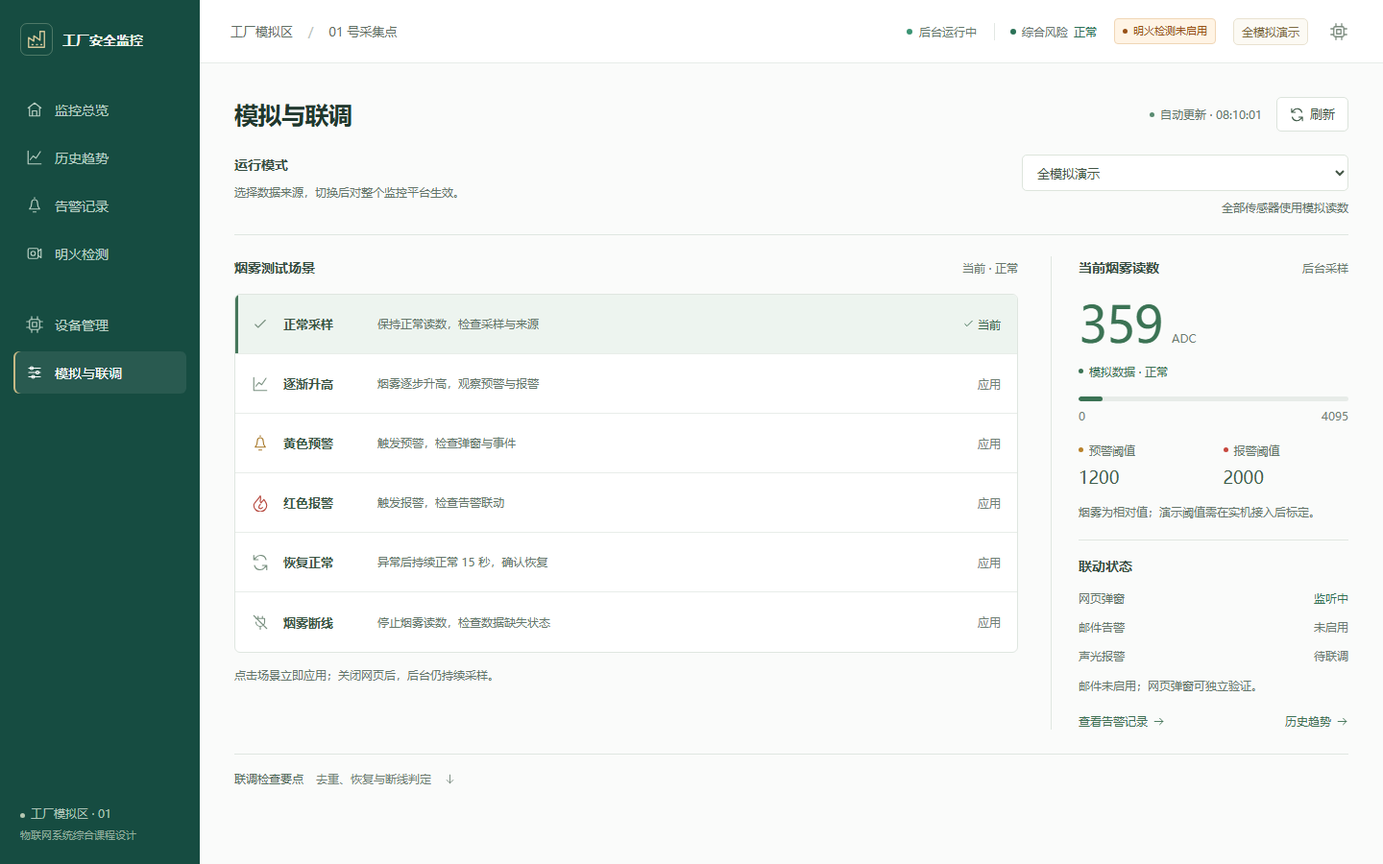
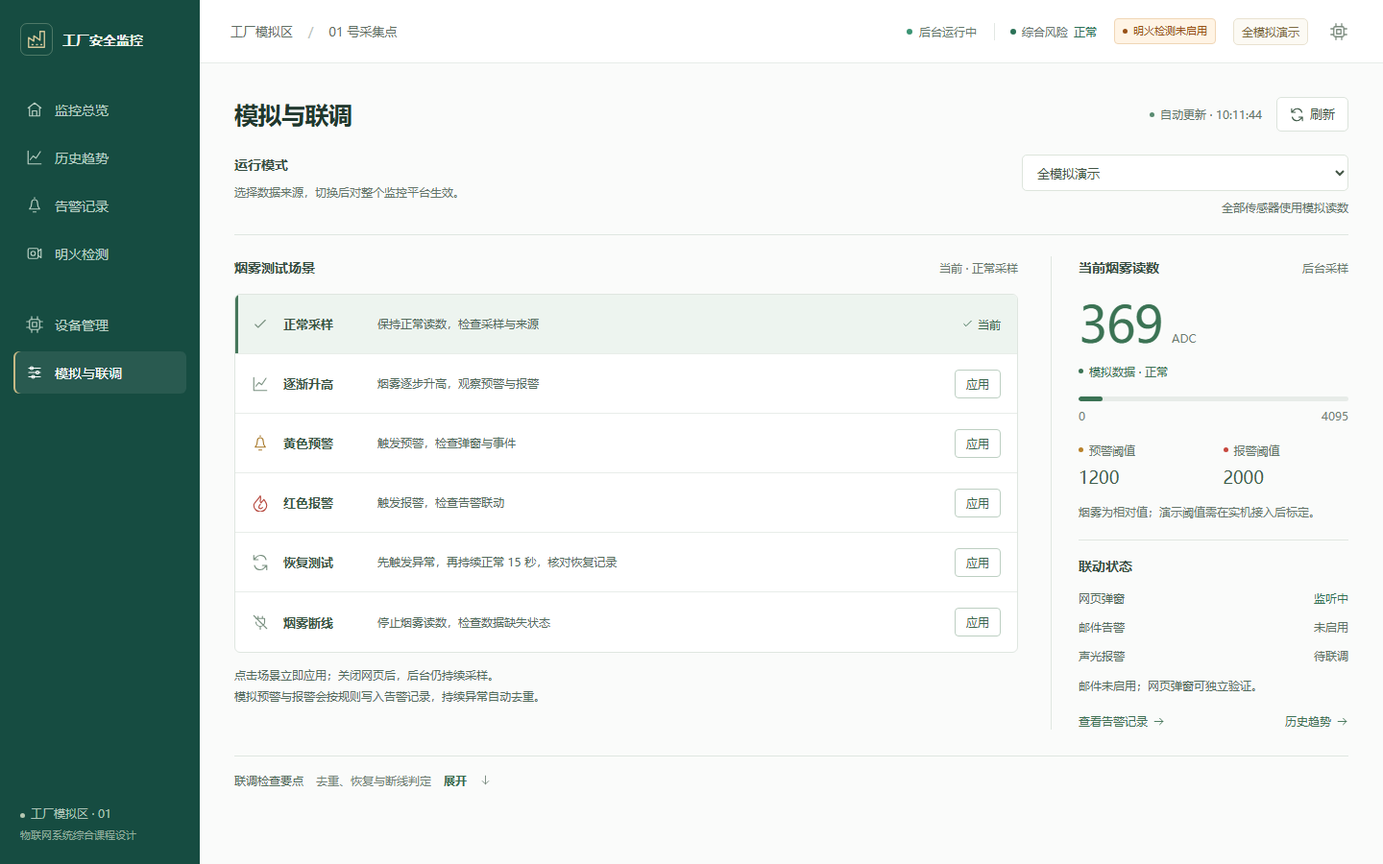
fix: clarify scenario actions and inline application feedback

diff --git a/static/css/simulation.css b/static/css/simulation.css
@@ -14,17 +14,23 @@
 .sim-section-heading { display:flex; align-items:center; justify-content:space-between; gap:12px; margin-bottom:16px; min-height:23px; }
 .sim-section-heading>span { color:#69796e; font-size:12px; white-space:nowrap; }
 .sim-scenario-list { border:1px solid #dfe6e0; background:#fff; border-radius:6px; overflow:hidden; }
-.sim-scenario { width:100%; display:grid; grid-template-columns:20px 85px minmax(0,1fr) 42px; gap:13px; align-items:center; min-height:62px; padding:15px 17px; background:transparent; border:0; border-bottom:1px solid #e8ede9; border-radius:0; color:#405b4b; text-align:left; }
+.sim-scenario { width:100%; display:grid; grid-template-columns:20px 85px minmax(0,1fr) 76px; gap:13px; align-items:center; min-height:62px; padding:15px 17px; background:transparent; border:0; border-bottom:1px solid #e8ede9; border-radius:0; color:#405b4b; text-align:left; }
 .sim-scenario:last-child { border-bottom:0; }.sim-scenario:hover:enabled { background:#f6f9f6; }
 .sim-scenario.selected { background:#edf4ef; box-shadow:inset 3px 0 #46775b; }.sim-scenario.selected:hover:enabled { background:#e7f0e9; }
 .sim-scenario:focus-visible { outline:2px solid #46775b; outline-offset:-3px; }
 .sim-scenario-symbol { display:flex; color:#7a9181; }.sim-scenario-symbol>.icon { width:18px; height:18px; stroke-width:1.5; }
 .sim-scenario[data-scenario="warning"] .sim-scenario-symbol { color:#a77727; }.sim-scenario[data-scenario="alarm"] .sim-scenario-symbol { color:#b6483e; }
-.sim-scenario-name { font-size:13px; font-weight:550; color:#395443; }.sim-scenario-description { font-size:12px; line-height:1.8; color:#65776b; }
-.sim-scenario-action { font-size:12px; color:#6f8074; text-align:right; }.sim-scenario-action>span:last-child { display:none; align-items:center; justify-content:flex-end; gap:3px; color:#35664a; }.sim-scenario-action .icon { width:13px; height:13px; }
-.sim-scenario.selected .sim-scenario-action>span:first-child { display:none; }.sim-scenario.selected .sim-scenario-action>span:last-child { display:flex; }
-.sim-scenario:disabled { opacity:.55; }.sim-scenario:disabled .sim-scenario-action { visibility:hidden; }
-.sim-control-note { margin-top:13px; }.sim-control-note p { margin:0; color:#65766b; font-size:12px; line-height:1.8; }
+.sim-scenario-name { font-size:13px; font-weight:550; color:#395443; }.sim-scenario-description { font-size:12px; line-height:1.8; color:#536b5c; }
+.sim-scenario-action { display:flex; justify-content:flex-end; font-size:12px; white-space:nowrap; }
+.sim-scenario-action>span { display:none; align-items:center; justify-content:center; gap:4px; min-height:30px; }
+.sim-scenario-action .sim-action-apply { display:inline-flex; padding:4px 11px; border:1px solid #bdcfc2; border-radius:4px; color:#3c664c; background:#fff; }
+.sim-scenario:hover:enabled .sim-action-apply { border-color:#7c9e86; background:#eef5ef; }
+.sim-scenario-action .sim-action-current { color:#35664a; }.sim-scenario-action .icon { width:13px; height:13px; }
+.sim-scenario.selected .sim-action-apply { display:none; }.sim-scenario.selected .sim-action-current { display:inline-flex; }
+.sim-scenario:disabled { opacity:.55; }.sim-scenario:disabled.selected,.sim-scenario:disabled[data-applying="true"] { opacity:1; }
+.sim-scenario[data-applying="true"] .sim-action-apply,.sim-scenario[data-applying="true"] .sim-action-current { display:none; }
+.sim-scenario[data-applying="true"] .sim-action-pending { display:inline-flex; padding:4px 7px; border:1px solid #ddc99d; border-radius:4px; background:#fff8eb; color:#89611f; }
+.sim-control-note { margin-top:13px; }.sim-control-note p { margin:0; color:#536b5c; font-size:12px; line-height:1.8; }
 #controlMessage { min-height:22px; margin-top:3px; color:#367153; }#controlMessage[data-state="pending"] { color:#8b6725; }#controlMessage[data-state="error"] { color:#a13e35; }
 .sim-monitor { border-left:1px solid #e0e7e1; padding-left:28px; }
 .sim-reading-panel { --reading-color:#3b7354; }.sim-reading-panel[data-level="red"] { --reading-color:#b44339; }.sim-reading-panel[data-level="yellow"] { --reading-color:#9b6d20; }.sim-reading-panel[data-level="gray"] { --reading-color:#78857d; }
@@ -35,13 +41,14 @@
 .sim-thresholds { display:grid; grid-template-columns:1fr 1fr; gap:20px; margin:18px 0 12px; }.sim-thresholds dt { display:flex; align-items:center; gap:6px; font-size:12px; color:#65766a; }.sim-thresholds .dot { width:5px; height:5px; }.sim-thresholds dd { margin:6px 0 0; font-size:18px; font-weight:450; color:#425f4d; font-variant-numeric:tabular-nums; }
 .sim-reading-note { font-size:12px; line-height:1.8; color:#65766b; margin:0; }
 .sim-linkage { margin-top:18px; border-top:1px solid #e0e7e1; padding-top:16px; }
-.sim-linkage dl { margin:12px 0; display:grid; gap:12px; }.sim-linkage dl>div { display:flex; justify-content:space-between; gap:16px; font-size:12px; }.sim-linkage dt { color:#64756a; }.sim-linkage dd { margin:0; color:#69786f; }.sim-linkage dd[data-state="ready"] { color:#317153; }.sim-linkage dd[data-state="error"] { color:#aa4037; }
-.sim-linkage>p { margin:0; font-size:12px; line-height:1.8; color:#65766b; }
+.sim-linkage dl { margin:12px 0; display:grid; gap:12px; }.sim-linkage dl>div { display:flex; justify-content:space-between; gap:16px; font-size:12px; }.sim-linkage dt { color:#536b5c; }.sim-linkage dd { margin:0; color:#5b7063; }.sim-linkage dd[data-state="ready"] { color:#317153; }.sim-linkage dd[data-state="error"] { color:#aa4037; }
+.sim-linkage>p { margin:0; font-size:12px; line-height:1.8; color:#536b5c; }
 .sim-result-links { display:flex; justify-content:space-between; gap:16px; margin-top:17px; }.sim-result-links a { display:inline-flex; align-items:center; gap:5px; font-size:12px; color:#3e7053; }.sim-result-links .icon { width:13px; height:13px; }.sim-result-links a:hover { text-decoration:underline; text-underline-offset:3px; }
 .sim-guide { border-top:1px solid #dfe6e1; margin-top:25px; padding-top:16px; }.sim-guide summary { display:flex; align-items:center; gap:13px; font-size:12px; color:#526b59; list-style:none; cursor:pointer; width:fit-content; }.sim-guide summary::-webkit-details-marker { display:none; }.sim-guide summary>span { color:#6f7e73; }.sim-guide summary>.icon { width:13px; height:13px; color:#74867a; transition:transform .15s; }.sim-guide[open] summary>.icon { transform:rotate(180deg); }.sim-guide summary:focus-visible { outline:2px solid #46775b; outline-offset:4px; }
 .sim-guide ul { margin:14px 0 0; padding-left:18px; font-size:12px; line-height:1.9; color:#65766b; }.sim-guide li+li { margin-top:6px; }
-@media(min-width:1750px) { .sim-layout { grid-template-columns:minmax(0,1fr) 350px; gap:42px; }.sim-monitor { padding-left:34px; }.sim-mode-field { width:350px; }.sim-scenario { min-height:72px; grid-template-columns:22px 105px minmax(0,1fr) 48px; padding:17px 22px; }.sim-scenario-name { font-size:14px; }.sim-scenario-description { font-size:13px; } }
-@media(max-width:1200px) { .sim-layout { grid-template-columns:minmax(0,1fr) 280px; gap:24px; }.sim-monitor { padding-left:23px; }.sim-scenario { grid-template-columns:18px minmax(0,1fr) 40px; gap:3px 10px; padding:12px 15px; }.sim-scenario-description { grid-column:2; }.sim-scenario-symbol { grid-column:1; grid-row:1/3; }.sim-scenario-action { grid-column:3; grid-row:1/3; }.sim-mode-field { width:310px; } }
+.sim-guide summary>.sim-guide-toggle { color:#376b4d; font-weight:550; }.sim-guide-close { display:none; }.sim-guide[open] .sim-guide-open { display:none; }.sim-guide[open] .sim-guide-close { display:inline; }
+@media(min-width:1750px) { .sim-layout { grid-template-columns:minmax(0,1fr) 350px; gap:42px; }.sim-monitor { padding-left:34px; }.sim-mode-field { width:350px; }.sim-scenario { min-height:72px; grid-template-columns:22px 105px minmax(0,1fr) 76px; padding:17px 22px; }.sim-scenario-name { font-size:14px; }.sim-scenario-description { font-size:13px; } }
+@media(max-width:1200px) { .sim-layout { grid-template-columns:minmax(0,1fr) 280px; gap:24px; }.sim-monitor { padding-left:23px; }.sim-scenario { grid-template-columns:18px minmax(0,1fr) 76px; gap:3px 10px; padding:12px 15px; }.sim-scenario-description { grid-column:2; }.sim-scenario-symbol { grid-column:1; grid-row:1/3; }.sim-scenario-action { grid-column:3; grid-row:1/3; }.sim-mode-field { width:310px; } }
 @media(max-width:950px) { .sim-layout { grid-template-columns:minmax(0,1fr); gap:28px; }.sim-monitor { display:grid; grid-template-columns:1fr 1fr; gap:28px; padding:24px 0 0; border-left:0; border-top:1px solid #dfe6e1; }.sim-linkage { margin:0; padding:0 0 0 28px; border-top:0; border-left:1px solid #e0e7e1; }.sim-mode { gap:20px; }.sim-mode-field { width:280px; } }
 @media(max-width:720px) { .sim-heading { margin-bottom:25px; gap:14px; }.sim-heading h1 { font-size:23px; }.sim-updated { display:none; }.sim-mode { flex-direction:column; gap:16px; margin-bottom:24px; padding-bottom:22px; }.sim-mode-field { width:100%; }.sim-mode-field p { text-align:left; }.sim-scenario { padding:14px 13px; min-height:74px; }.sim-section-heading { margin-bottom:13px; }.sim-monitor { grid-template-columns:minmax(0,1fr); gap:23px; }.sim-linkage { border-left:0; border-top:1px solid #e0e7e1; padding:21px 0 0; }.sim-reading-value strong { font-size:48px; }.sim-result-links { justify-content:flex-start; gap:24px; }.sim-guide summary { gap:9px; flex-wrap:wrap; }.sim-guide summary>span { font-size:12px; } }
 @media(prefers-reduced-motion:reduce) { .sim-scale-track>i,.sim-guide summary>.icon { transition:none; } }

diff --git a/templates/pages/simulation.html b/templates/pages/simulation.html
@@ -17,13 +17,13 @@
         {% for key,label in scenarios.items() %}
         <button type="button" class="sim-scenario" data-scenario="{{ key }}" aria-pressed="false">
           <span class="sim-scenario-symbol">{{ icon({'normal':'check','rising':'history','warning':'alerts','alarm':'fire','recovery':'refresh','disconnected':'unplug'}[key]) }}</span>
-          <span class="sim-scenario-name">{{ {'normal':'正常采样','rising':'逐渐升高','warning':'黄色预警','alarm':'红色报警','recovery':'恢复正常','disconnected':'烟雾断线'}[key] }}</span>
-          <span class="sim-scenario-description">{{ {'normal':'保持正常读数，检查采样与来源','rising':'烟雾逐步升高，观察预警与报警','warning':'触发预警，检查弹窗与事件','alarm':'触发报警，检查告警联动','recovery':'异常后持续正常 15 秒，确认恢复','disconnected':'停止烟雾读数，检查数据缺失状态'}[key] }}</span>
-          <span class="sim-scenario-action" aria-hidden="true"><span>应用</span><span>{{ icon('check') }}当前</span></span>
+          <span class="sim-scenario-name">{{ {'normal':'正常采样','rising':'逐渐升高','warning':'黄色预警','alarm':'红色报警','recovery':'恢复测试','disconnected':'烟雾断线'}[key] }}</span>
+          <span class="sim-scenario-description">{{ {'normal':'保持正常读数，检查采样与来源','rising':'烟雾逐步升高，观察预警与报警','warning':'触发预警，检查弹窗与事件','alarm':'触发报警，检查告警联动','recovery':'先触发异常，再持续正常 15 秒，核对恢复记录','disconnected':'停止烟雾读数，检查数据缺失状态'}[key] }}</span>
+          <span class="sim-scenario-action" aria-hidden="true"><span class="sim-action-apply">应用</span><span class="sim-action-current">{{ icon('check') }}当前</span><span class="sim-action-pending">应用中…</span></span>
         </button>
         {% endfor %}
       </div>
-      <div class="sim-control-note"><p id="controlHint">点击场景立即应用，后台持续采样。</p><p id="controlMessage" role="status" aria-live="polite"></p></div>
+      <div class="sim-control-note"><p id="controlHint">点击场景立即应用，后台持续采样。</p><p>模拟预警与报警会按规则写入告警记录，持续异常自动去重。</p><p id="controlMessage" role="status" aria-live="polite"></p></div>
     </section>
 
     <aside class="sim-monitor" aria-label="实时读数与联动状态">
@@ -43,5 +43,5 @@
     </aside>
   </div>
 
-  <details class="sim-guide"><summary>联调检查要点<span>去重、恢复与断线判定</span>{{ icon('arrow-down') }}</summary><ul><li>先确认正常读数，再触发预警或报警；持续同一异常应合并记录，升级时新增事件。</li><li>异常后切换恢复场景，保持正常采样至少 15 秒，再核对告警页的恢复记录。</li><li>烟雾断线应显示无有效数据，不能作为恢复依据；混合模式下其余传感器需实际上报。</li><li>模拟读数仅用于功能演示与联调；实体声光动作和邮件接收需要分别验证。</li></ul></details>
+  <details class="sim-guide"><summary>联调检查要点<span>去重、恢复与断线判定</span><span class="sim-guide-toggle" aria-hidden="true"><span class="sim-guide-open">展开</span><span class="sim-guide-close">收起</span></span>{{ icon('arrow-down') }}</summary><ul><li>先确认正常读数，再触发预警或报警；持续同一异常应合并记录，升级时新增事件。</li><li>先触发异常，再应用“恢复测试”，保持正常采样至少 15 秒，核对告警页的恢复记录。</li><li>烟雾断线应显示无有效数据，不能作为恢复依据，当前也不会单独生成断线告警；混合模式下其余传感器需实际上报。</li><li>模拟读数仅用于功能演示与联调；实体声光动作和邮件接收需要分别验证。</li></ul></details>
 </div>

diff --git a/static/js/dashboard.js b/static/js/dashboard.js
@@ -8,7 +8,7 @@
   const modes = {hybrid:"真实环境＋模拟烟雾",demo:"全模拟演示",live:"全部真实采集"};
   const sources = {simulation:"模拟数据",mqtt:"实际采集",missing:"待接入"};
   const types = {environment:"环境异常",smoke:"烟雾异常",vision:"明火异常"};
-  const scenarios = {normal:"正常",rising:"逐渐升高",warning:"预警",alarm:"报警",recovery:"恢复",disconnected:"烟雾断线"};
+  const scenarios = {normal:"正常采样",rising:"逐渐升高",warning:"黄色预警",alarm:"红色报警",recovery:"恢复测试",disconnected:"烟雾断线"};
   const token = document.querySelector('meta[name="control-token"]').content;
   let status = null, thresholds = {}, currentMode = null, eventCursor = null, eventStream = null;
   let minutes = 10, selectedHistoryMode = null, customRange = null, historyWindow = null, historyPoints = [], stats = null;
@@ -522,16 +522,20 @@
   }
   async function control(body){
     if(controlBusy)return;controlBusy=true;controlVersion++;updateSimulationControls();
+    const activeRow=body.scenario?document.querySelector('[data-scenario="'+body.scenario+'"]'):null;
+    const clearApplying=()=>{if(activeRow){delete activeRow.dataset.applying;activeRow.removeAttribute("aria-busy");}};
+    if(activeRow){activeRow.dataset.applying="true";activeRow.setAttribute("aria-busy","true");}
     $("simulationWorkspace").setAttribute("aria-busy","true");$("refreshSimulation").disabled=true;
-    set("controlMessage","正在应用…");$("controlMessage").dataset.state="pending";
+    set("controlMessage",body.scenario?"正在应用："+scenarios[body.scenario]+"…":"正在切换运行模式…");$("controlMessage").dataset.state="pending";
     try{
       const data=await api("/api/simulation",{method:"POST",headers:{"Content-Type":"application/json","X-Control-Token":token},body:JSON.stringify(body)});
-      renderStatus(data);set("controlMessage","已应用，后台持续采样");$("controlMessage").dataset.state="success";await refreshNotifications();
+      renderStatus(data);clearApplying();set("controlMessage",body.scenario?"已切换到："+scenarios[data.scenario]:"运行模式已切换为："+modes[data.mode]);$("controlMessage").dataset.state="success";await refreshNotifications();
     }catch(error){
+      clearApplying();
       set("controlMessage",error.message);$("controlMessage").dataset.state="error";
       try{renderStatus(await api("/api/status"));}catch(_){markOffline();}
     }
-    finally{controlBusy=false;controlVersion++;$("simulationWorkspace").setAttribute("aria-busy","false");$("refreshSimulation").disabled=false;updateSimulationControls();}
+    finally{clearApplying();controlBusy=false;controlVersion++;$("simulationWorkspace").setAttribute("aria-busy","false");$("refreshSimulation").disabled=false;updateSimulationControls();}
   }
   async function poll(){
     const version=controlVersion;

diff --git a/tests/simulation_ui_check.py b/tests/simulation_ui_check.py
@@ -78,7 +78,7 @@ def main():
                 page.keyboard.press('Enter')
                 expect(button).to_have_attribute('aria-pressed','true')
                 expect(page.locator('#simReadingPanel')).to_have_attribute('data-level',level)
-                expect(page.locator('#controlMessage')).to_have_text('已应用，后台持续采样')
+                expect(page.locator('#controlMessage')).to_have_text('已切换到：'+button.locator('.sim-scenario-name').inner_text())
                 expect(page.locator('#controlMessage')).to_have_attribute('data-state','success')
                 assert posts[-1] == {'scenario':scenario}
                 if scenario=='disconnected':
@@ -104,7 +104,15 @@ def main():
             reject_control = False
             page.locator('#modeSelect').select_option('demo')
             expect(page.locator('[data-scenario="alarm"]')).to_be_enabled()
-            checks.append('hybrid and live source descriptions; live mode disables injection; rejected changes retain confirmed mode')
+            reject_control = True
+            page.locator('[data-scenario="warning"]').click()
+            expect(page.locator('#controlMessage')).to_have_attribute('data-state','error')
+            expect(page.locator('[data-applying="true"]')).to_have_count(0)
+            expect(page.locator('[data-scenario="warning"]')).to_have_attribute('aria-pressed','false')
+            expect(page.locator('[data-scenario="warning"] .sim-action-apply')).to_be_visible()
+            expect(page.locator('[data-scenario="normal"] .sim-action-current')).to_be_visible()
+            reject_control = False
+            checks.append('hybrid and live source descriptions; live mode disables injection; rejected mode or scenario retains confirmed state and clears pending feedback')
 
             page.unroute('**/api/status')
             page.route('**/api/status', lambda route: route.fulfill(status=503,json={'error':'offline'}))
@@ -154,15 +162,22 @@ def main():
             page.route('**/api/simulation', lambda route:pending_controls.append(route))
             page.locator('[data-scenario="alarm"]').click()
             expect(page.locator('#controlMessage')).to_have_attribute('data-state','pending')
+            expect(page.locator('[data-scenario="alarm"] .sim-action-pending')).to_be_visible()
+            expect(page.locator('[data-scenario="alarm"]')).to_have_attribute('aria-busy','true')
+            expect(page.locator('[data-scenario="alarm"]')).to_have_attribute('aria-pressed','false')
+            expect(page.locator('[data-scenario="normal"] .sim-action-current')).to_be_visible()
             expect(page.locator('#modeSelect')).to_be_disabled()
             expect(page.locator('[data-scenario="normal"]')).to_be_disabled()
             deadline = time.monotonic()+4
             while not pending_controls and time.monotonic()<deadline:
                 page.wait_for_timeout(50)
             assert len(pending_controls)==1
+            page.screenshot(path=str(out/'applying.png'))
             apply_control(pending_controls[0])
             expect(page.locator('#simReadingPanel')).to_have_attribute('data-level','red')
             expect(page.locator('#controlMessage')).to_have_attribute('data-state','success')
+            expect(page.locator('[data-scenario="alarm"] .sim-action-pending')).to_be_hidden()
+            expect(page.locator('[data-scenario="alarm"] .sim-action-current')).to_be_visible()
             for route in pending_status:
                 route.fulfill(json=old)
             page.wait_for_timeout(100)
@@ -173,8 +188,12 @@ def main():
             page.screenshot(path=str(out/'alarm.png'))
             checks.append('pending commands lock controls; a delayed status response cannot undo the applied scenario')
 
+            expect(page.locator('.sim-guide-open')).to_be_visible()
+            expect(page.locator('.sim-guide-close')).to_be_hidden()
             page.locator('.sim-guide summary').click()
             expect(page.locator('.sim-guide')).to_have_attribute('open','')
+            expect(page.locator('.sim-guide-open')).to_be_hidden()
+            expect(page.locator('.sim-guide-close')).to_be_visible()
             expect(page.locator('.sim-guide')).to_contain_text('15 秒')
             page.locator('.sim-result-links').get_by_role('link',name='查看告警记录').click()
             expect(page).to_have_url(url+'/alerts')
@@ -182,6 +201,7 @@ def main():
             page.locator('.sim-result-links').get_by_role('link',name='历史趋势').click()
             expect(page).to_have_url(url+'/history')
             checks.append('validation guidance expands and both result links reach their existing pages')
+            page.unroute_all(behavior='wait')
             assert not errors, errors
             browser.close()
     finally:

diff --git a/tests/browser_check.py b/tests/browser_check.py
@@ -171,7 +171,7 @@ def main():
             page.goto(url+"/simulation")
             with page.expect_response("**/api/simulation"):
                 page.locator('[data-scenario="normal"]').click()
-            expect(page.locator("#controlMessage")).to_have_text("已应用，后台持续采样")
+            expect(page.locator("#controlMessage")).to_have_text("已切换到：正常采样")
             expect(page.locator("#simWarning")).to_have_text("--")
             for route in delayed_status:
                 route.continue_()

diff --git a/docs/SIMULATION_UI.md b/docs/SIMULATION_UI.md
@@ -22,6 +22,10 @@
 
 场景点击后立即提交，应用期间禁用重复操作。成功后显示后台确认的模式与场景；失败时显示原因并重新获取状态，避免把未应用的选择留在页面上。较早的状态响应不会覆盖之后成功应用的场景。
 
+评审后的重点调整：右侧“应用”使用轻量描边样式，整行仍可点击。被点击行在等待期间显示“应用中…”，之前的当前态保留到后台确认；成功后更新为“✓ 当前”，下方显示“已切换到：具体场景”，失败时清除等待态并显示原因。不额外增加操作 toast，避免与告警弹窗叠加。
+
+恢复场景名称调整为“恢复测试”，说明先触发异常，再保持正常采样至少 15 秒核对恢复记录。列表下方说明模拟预警／报警按规则写入记录并去重；断线不会单独生成断线告警。场景说明、联动标签与底部提示加深文字颜色，检查要点增加“展开／收起”文字入口。
+
 真实采集模式禁用所有模拟场景。后台断线时清空实时读数、取消当前场景标记并禁用控制；连接恢复或手动刷新成功后恢复操作。通知接口单独失败时，弹窗状态显示异常，采样读数仍可用。
 
 邮件启用与允许模拟邮件分别显示；页面不把“已启用”作为实际邮件到达的证据。烟雾数值的正常状态是当前采样判定，事件恢复仍由后台持续确认，不能以按钮选中或数值变绿代替恢复事件。

diff --git a/docs/VALIDATION.md b/docs/VALIDATION.md
@@ -150,3 +150,7 @@ Linux 使用 `.venv/bin/python`；后端测试可以执行 `.venv/bin/python -m 
 1366、1920、768、390、320 像素宽度均无整页横向溢出。1366 × 768 下场景列表底部约 680 像素，反馈侧栏底部约 760 像素；已查看桌面与手机截图。首次视觉检查发现读数条宽度动画影响即时显示，去掉动画后验证进度宽度与读数一致。
 
 专项检查使用隔离响应与数据库；邮件状态、控制错误和通知故障均由明确夹具验证，没有连接物理设备或发送外部邮件。结果与截图位于忽略目录 `artifacts/simulation-check/`，设计与边界见 [模拟联调页改版记录](SIMULATION_UI.md)。
+
+### 模拟操作反馈重点调整
+
+再次执行模拟页 7 组与全站 9 组检查，验证五种宽度、描边操作入口、目标行应用中反馈、后台确认后更新当前态、失败清除等待态并保留已确认场景，以及展开／收起入口。延迟请求截图保存为 `artifacts/simulation-check/applying.png`，其中通知与读数为隔离测试状态。已人工查看桌面与手机效果，本轮未新增操作 toast 或修改后台事件规则。

diff --git a/CHANGELOG.md b/CHANGELOG.md
@@ -4,6 +4,8 @@
 
 ## [Unreleased]
 
+- 模拟场景的“应用”改为描边操作样式，提交时在目标行显示“应用中…”，后台确认后显示当前态和具体场景名称；失败恢复原有确认状态，不新增操作弹窗。
+- “恢复正常”场景更名为“恢复测试”，明确先触发异常再保持正常；补充模拟事件记录与去重说明，加深辅助文字，检查要点增加“展开／收起”。
 - 模拟与联调页改版：共用导航与风险顶栏、紧凑模式设置、六行场景列表、实时烟雾读数与联动状态；验证要点按需展开，保留原有数据来源与演示边界。
 - 模拟控制补齐应用中、成功和失败反馈；失败后重新读取后台模式，断线时禁用控制；较早的状态响应不会覆盖新应用的场景。真实采集模式继续禁用模拟注入。
 - 新增模拟联调页 7 组浏览器检查，覆盖五种宽度、键盘操作、模式切换、通知配置、失败恢复及请求顺序；全站 9 组浏览器回归通过。没有新增实机接入能力。
